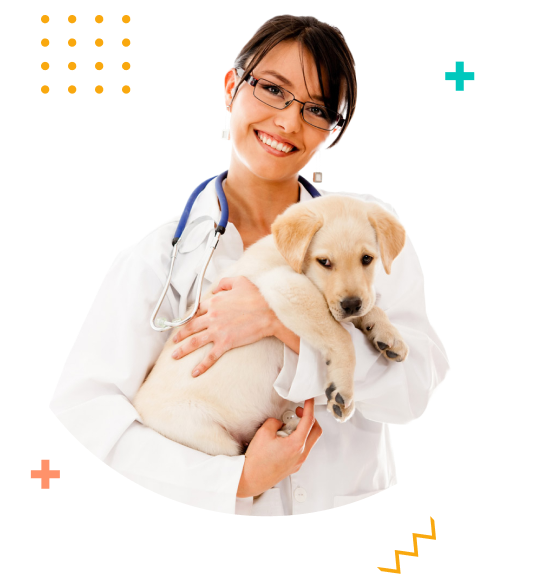
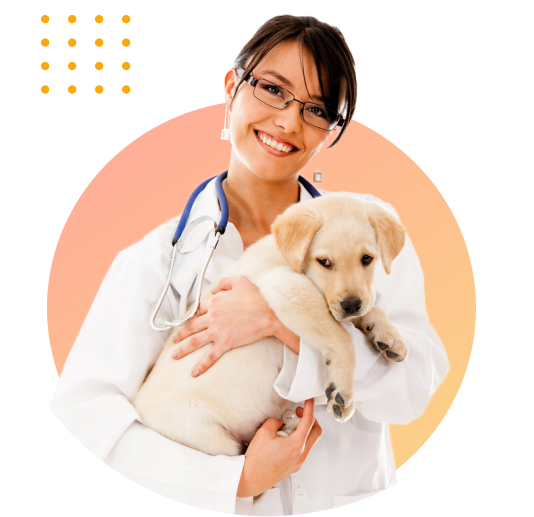
aninmation

diff --git a/src/Components/Let.jsx b/src/Components/Let.jsx
@@ -2,12 +2,15 @@ import React from 'react'
 import { Container, Row, Col } from 'react-bootstrap'
 import coll from '../assets/coll.png'
 import let_2 from '../assets/let_2.png'
+import plus from '../assets/green_plus.png'
+import plus_red from '../assets/red_plus.png'
+import orange_line from '../assets/orange_line.png'
 
 const Let = () => {
     return (
         <section className='bg_section_1 py-5'>
-            <Container>
-                <Row>
+            <Container className=' pb-lg-5'>
+                <Row className='pb-5'>
                     <Col lg={6} className='mt-5'>
                         <p className='fw_400 fs_45 ff_Slackey clr_dark_blue text-center text-lg-start'>Lets book a call and stay connected </p>
                         <div className=' d-flex mt-4 flex-column flex-sm-row align-items-center'>
@@ -25,9 +28,13 @@ const Let = () => {
                             <p className='w_500 fs_18 ff_Poppins clr_dark_blue Call ms-sm-5 mt-2'><span><img src={coll} alt="" /></span> Emergency Call</p>
                         </div>
                     </Col>
-                    <Col lg={6} className='mt-4 mt-sm-0'>
-                        <img className=' w-100' src={let_2} alt="" />
-                    </Col></Row>
+                    <Col lg={6} className='mt-4 mt-sm-0 position-relative'>
+                        <img className=' w-100' src={let_2} />
+                        <img src={plus} className='green_plus position-absolute grow_up' />
+                        <img src={plus_red} className='plus_red position-absolute rotate_animation' />
+                        <img src={orange_line} className='orange_line position-absolute move_animation' />
+                    </Col>
+                </Row>
             </Container>
         </section>
     )

diff --git a/src/App.css b/src/App.css
@@ -1275,6 +1275,42 @@ input.lage_box {
   cursor: pointer;
 }
 
+.green_plus {
+  right: 40px;
+  top: 61px;
+}
+
+.plus_red {
+  left: 46px;
+  bottom: 23px;
+}
+
+.orange_line {
+  bottom: -64px;
+  right: 130px;
+}
+.move_animation{
+  animation: move 3.8s linear infinite;
+}
+@keyframes move {
+  0%{
+    transform: translateX(0%);
+  }
+  25%{
+    transform: translateX(-10%);
+  }
+  50%{
+    transform: translateX(0%);
+  }
+  75%{
+    transform: translateX(10%);
+  }
+  100%{
+    transform: translateX(0%);
+  }
+
+  
+}
 @media (max-width:1200px) {
   .star_hero {
     left: 0;
